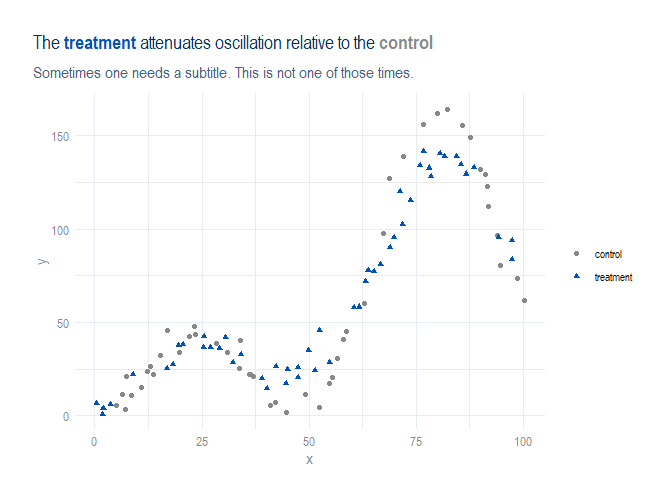
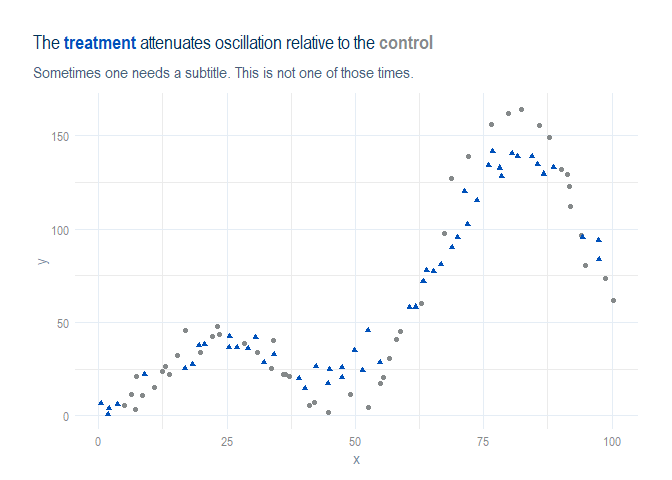
Removed legend

diff --git a/README.md b/README.md
@@ -76,17 +76,13 @@ categorical_palette <- kubrand::ku_pal("cat2_int", reverse = TRUE)(2L)
 dataset %>% 
   ggplot2::ggplot() +
   ggplot2::aes(x = val_x_measured, y = val_y_measured, color = cat_treatment, shape = cat_treatment) +
-  ggplot2::geom_point() +
+  ggplot2::geom_point(show.legend = FALSE) +
   ggplot2::xlab("x") +
   ggplot2::ylab("y") +
   kubrand::scale_color_ku("cat2_int", reverse = TRUE) +
   ggplot2::ggtitle(
     label = glue::glue("The **{kubrand::color_text(categorical_palette[[2]], 'treatment')}** attenuates oscillation relative to the **{kubrand::color_text(categorical_palette[[1]], 'control')}**"),
     subtitle = "Sometimes one needs a subtitle. This is not one of those times."
-  ) +
-  ggplot2::labs(
-    color = NULL,
-    shape = NULL
   ) +
   theme_ku()
 ```
